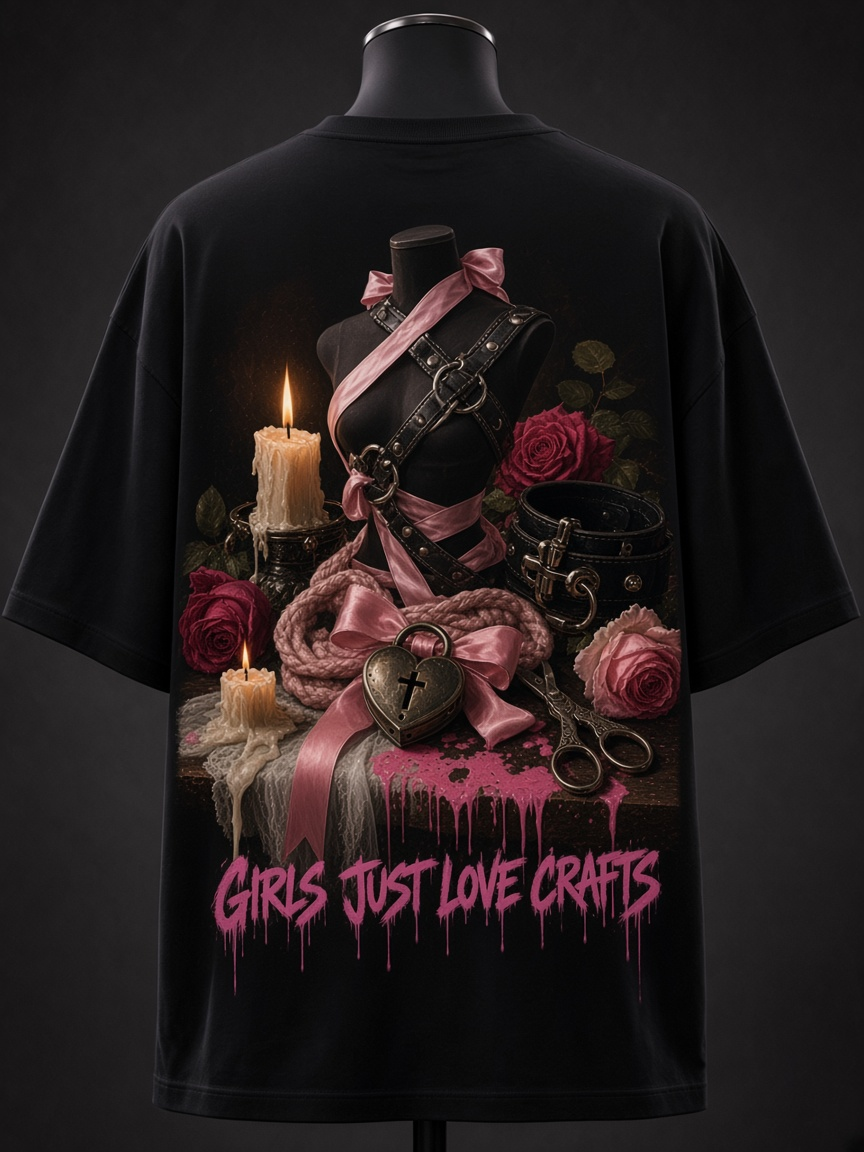
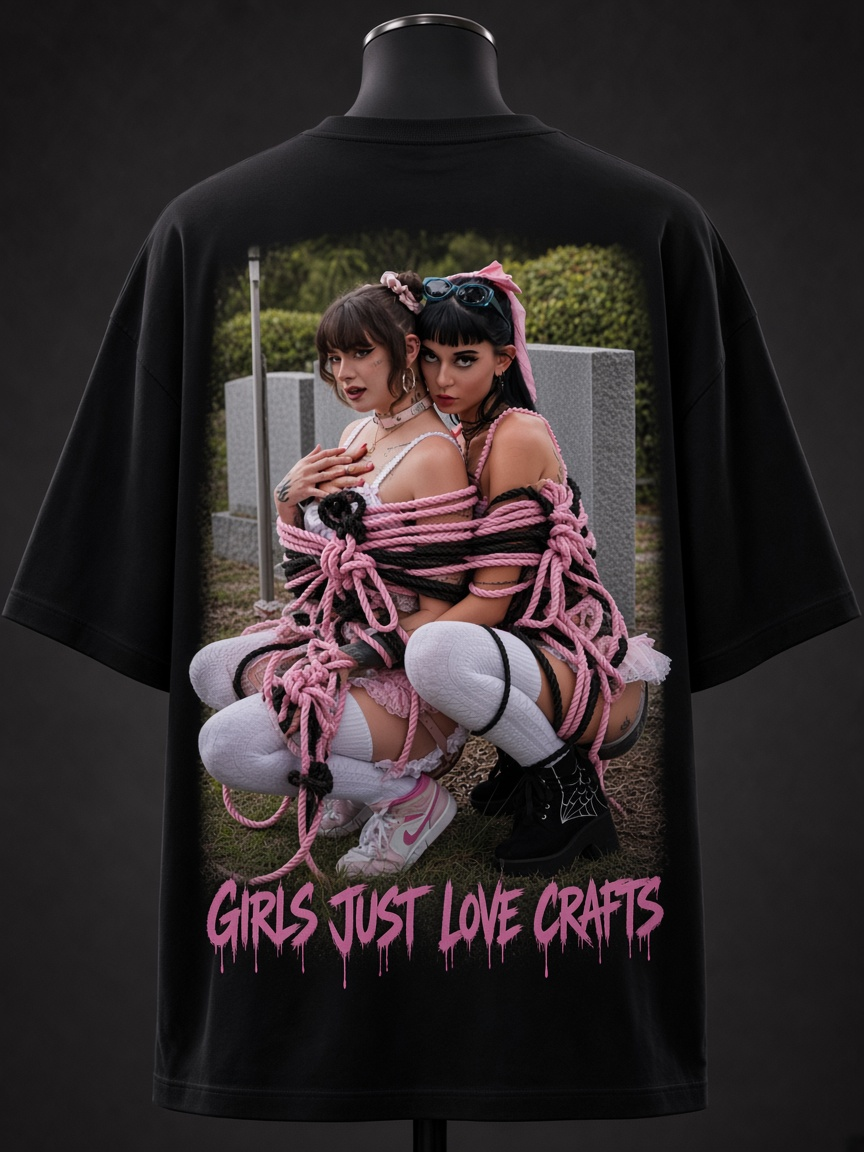
Use a placeholder of us in rope on the crafts tee back.

Changed region(s): [[0.1875, 0.1875, 0.8125, 0.8438], [0.4688, 0.0, 0.5, 0.0312]]

diff --git a/src/main.rs b/src/main.rs
@@ -48,7 +48,7 @@ fn catalog() -> Vec<Product> {
             price: 48,
             category: "Tops",
             image: "/static/images/crafts-tee-front.jpg",
-            hover_image: Some("/static/images/crafts-tee-back.jpg"),
+            hover_image: Some("/static/images/crafts-tee-back.jpg?v=us"),
             tag: Some("Just in"),
             packshot: true,
         },
